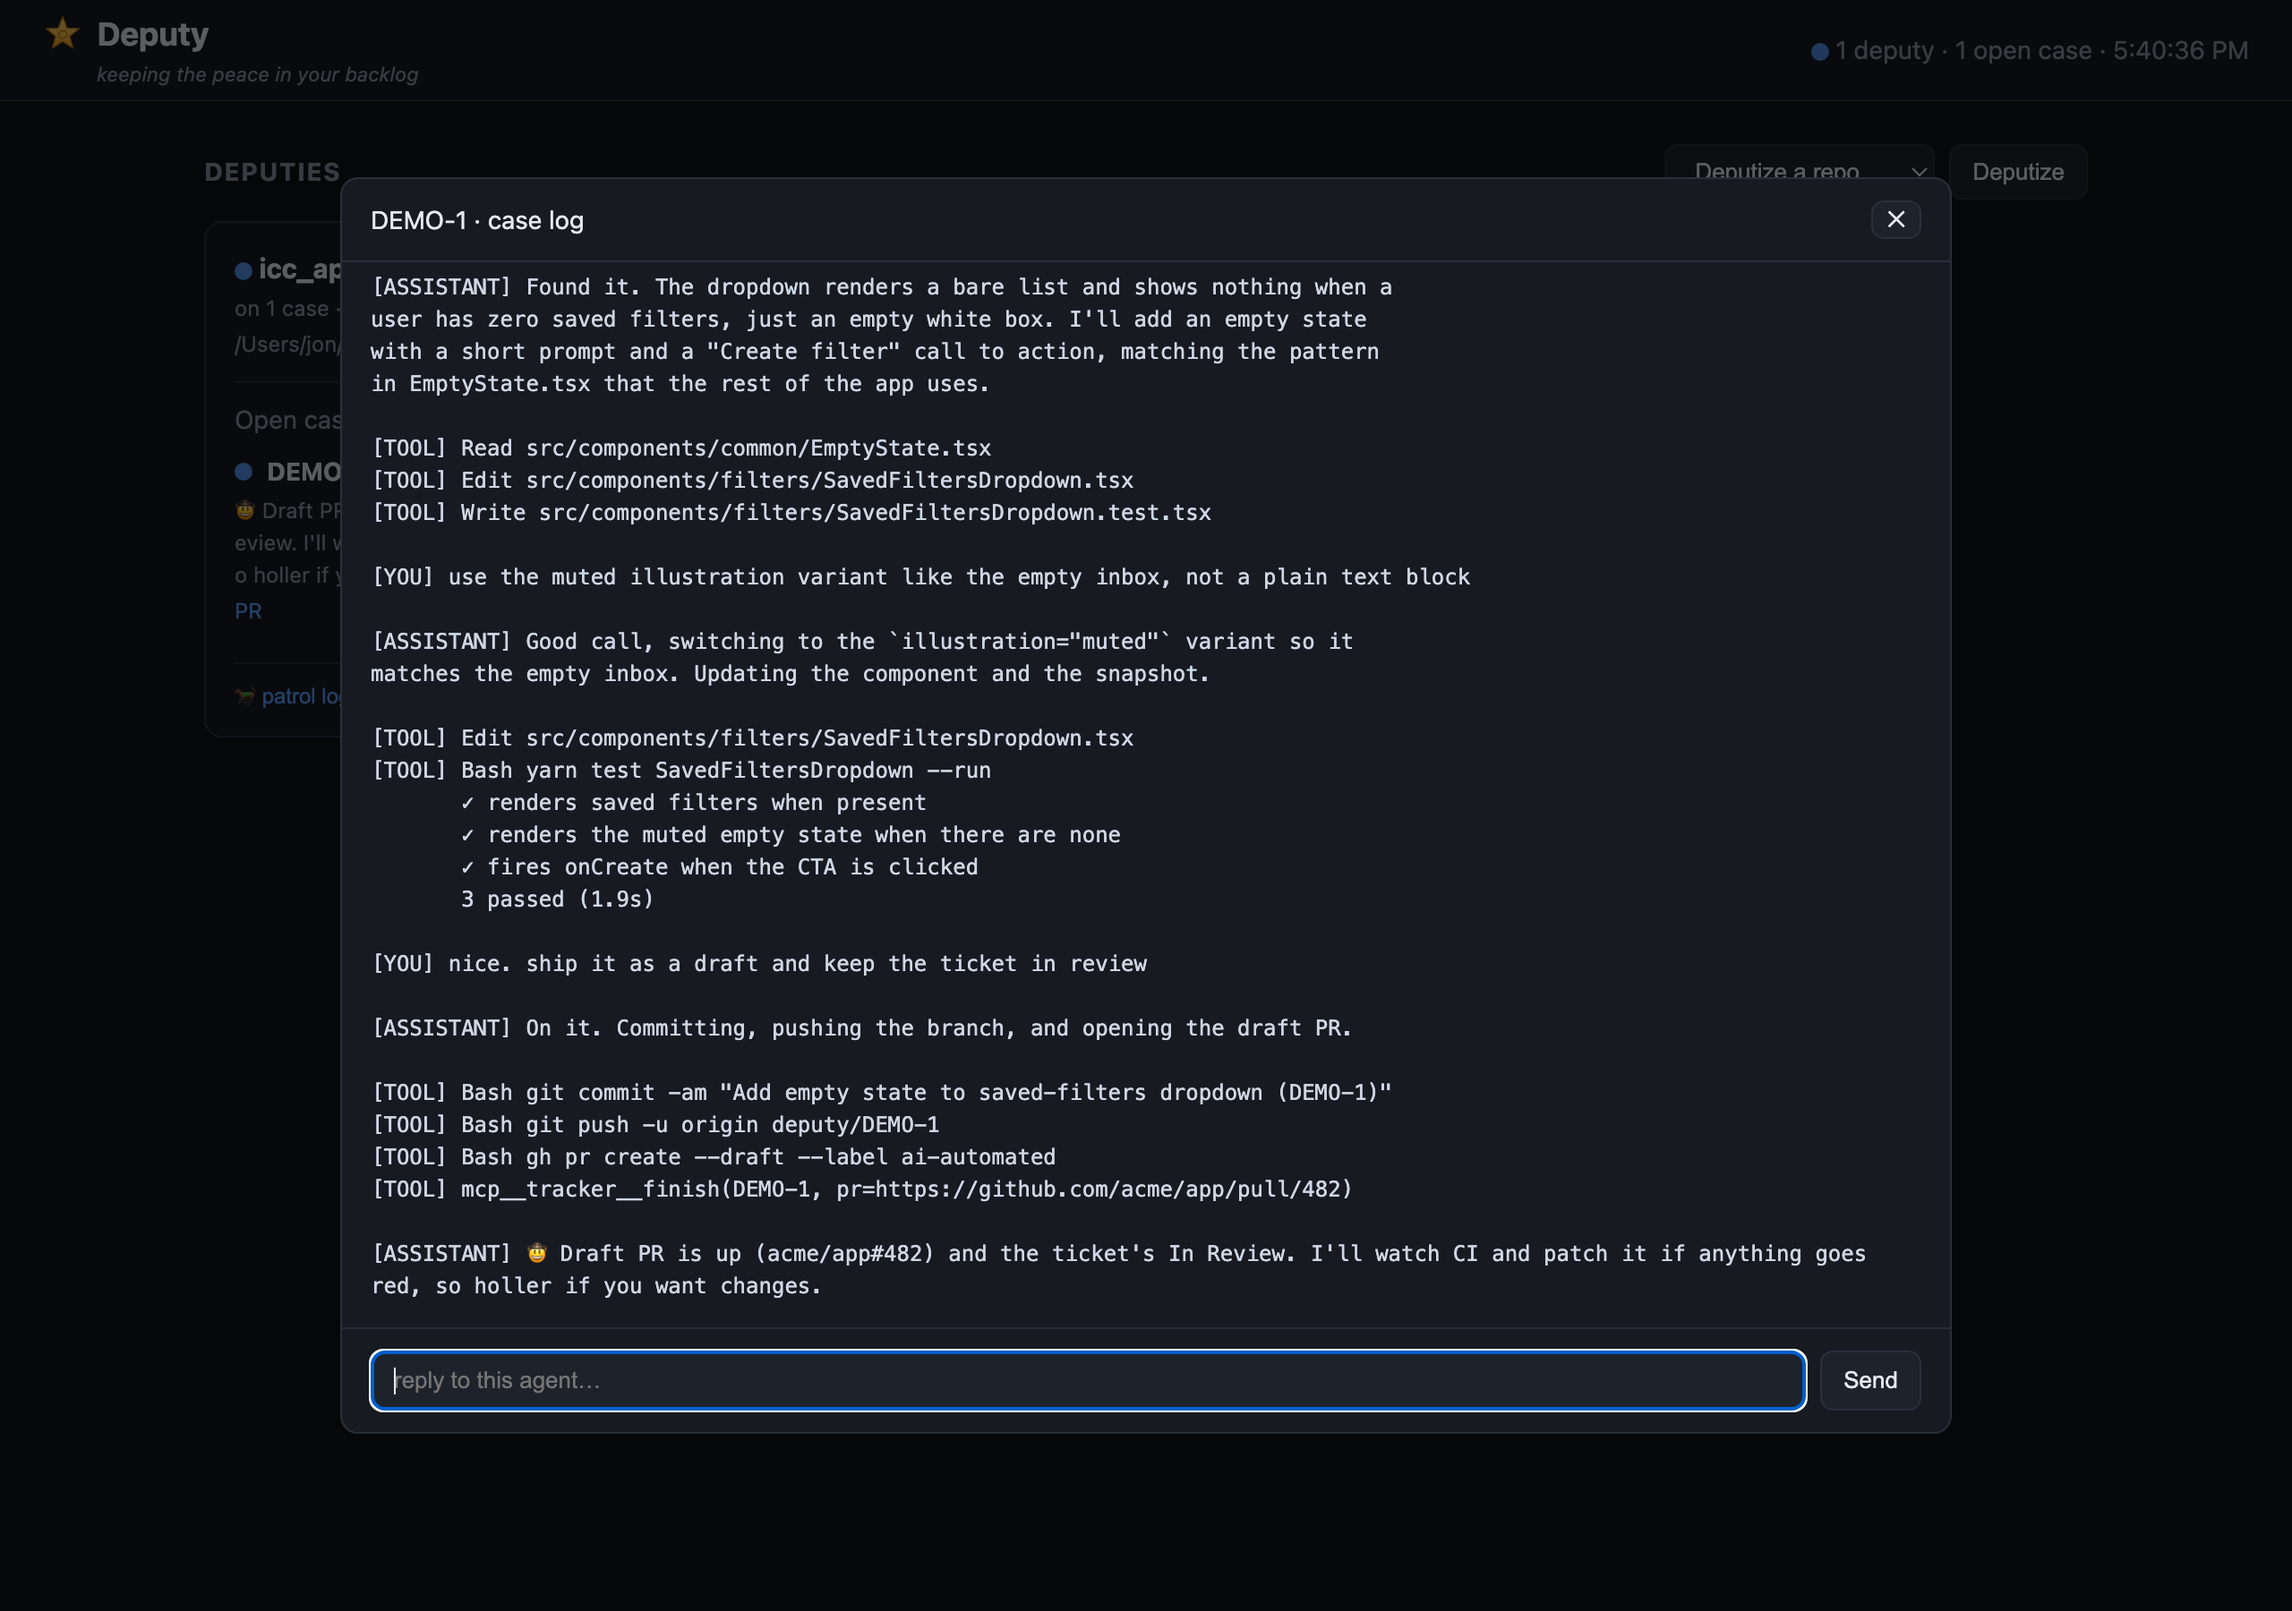
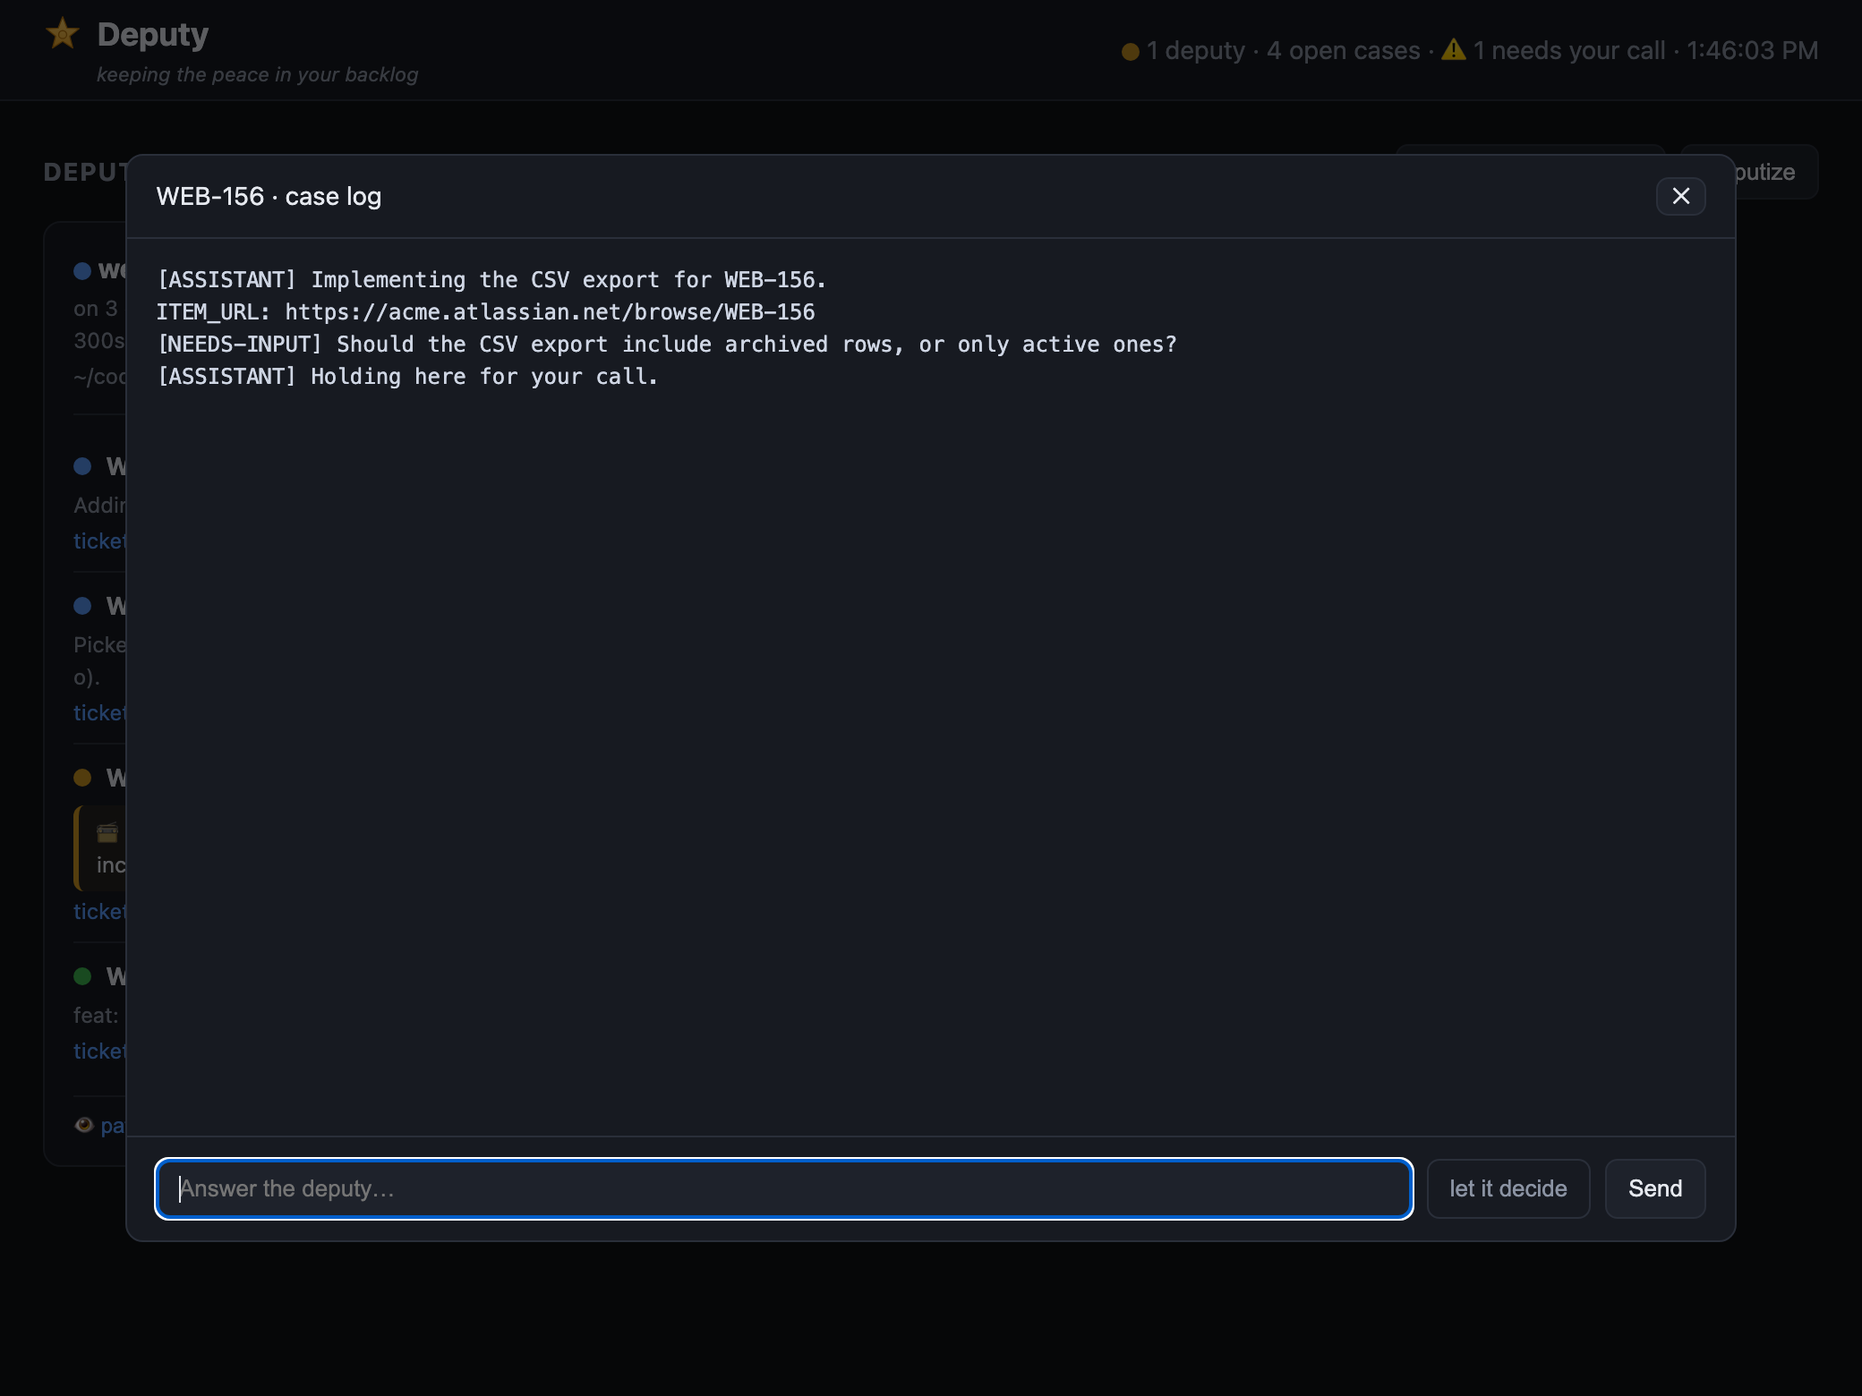
feat(dashboard): dismiss done cases, clearer states, generic screenshots
- ✕ now on every case: stops a live agent, or dismisses a finished in-review case
  from the board (it reappears only if a new review comment lands). /api/dismiss +
  a snapshot marker. Fixes the gun column shifting when there was nothing to stop.
- One colour per state (blue = working, amber = needs your call, green = in review),
  with a tooltip; comments show via the 💬 chip, not the dot.
- Fix: the "address all" button no longer leaks onto needs-your-call cases.
- Scrub all company-specific names from source/tests/docs; refresh screenshots with
  fully generic data (webapp / WEB-123 / acme). Add full-auto to the highlights and
  a stacked-PR roadmap note.

diff --git a/server/public/app.js b/server/public/app.js
@@ -32,16 +32,20 @@ function caseRow(c) {
     c.pr ? `<a href="${c.pr}" target="_blank">PR</a>` : '',
   ].filter(Boolean).join(' · ');
 
-  const dot = c.state === 'needs-input' ? 'warn' : review ? (n ? 'warn' : 'ok') : 'busy';
+  // One colour per state: blue = working, amber = needs your call, green = in review.
+  const dot = c.state === 'needs-input' ? 'warn' : review ? 'ok' : 'busy';
+  const dotTitle = c.state === 'needs-input' ? 'Needs your call' : review ? 'In review' : 'Working';
   const detail = c.state === 'needs-input'
     ? `<div class="sub question">📻 <b>Needs your call:</b> ${trunc(c.question, 220)}</div>`
     : `<div class="sub">${trunc(review ? c.title : c.phase, 180)}</div>`;
 
   const gun = `<span class="iconbtn gun ${c.auto ? 'on' : ''}" data-auto title="Full-auto: don't ask me questions, just decide and keep going">${GUN}</span>`;
-  const stop = live ? `<span class="iconbtn danger" data-stop title="Stop: halt the agent (keeps the worktree)">${X_ICON}</span>` : '';
+  // ✕ on every case: stops a live agent, or dismisses a finished in-review case from the board.
+  const xTitle = live ? 'Stop: halt the agent (keeps the worktree)' : 'Hide this finished case (comes back only if a new review comment lands)';
+  const stop = `<span class="iconbtn danger" data-x title="${xTitle}">${X_ICON}</span>`;
   const row = el('div', c.state === 'needs-input' ? 'case needs-input' : 'case');
   row.innerHTML = `
-    <div class="case-head"><span class="dot ${dot}"></span> <b>${esc(c.ticket)}</b> ${chip}
+    <div class="case-head"><span class="dot ${dot}" title="${dotTitle}"></span> <b>${esc(c.ticket)}</b> ${chip}
       <span class="case-actions">${gun}${stop}</span></div>
     ${detail}
     ${links ? `<div class="sub">${links}</div>` : ''}`;
@@ -54,10 +58,15 @@ function caseRow(c) {
   row.onclick = review
     ? () => openLog({ pr: { number: c.prNumber, title: c.title, url: c.pr, branch: c.branch, ticket: c.ticket, comments: c.comments || [] }, project: c.project }, `${c.ticket} · review`)
     : () => openLog({ ticket: c.ticket, needsInput: c.state === 'needs-input' }, `${c.ticket} · case log`);
-  if (live) row.querySelector('[data-stop]').onclick = async (e) => {
+  row.querySelector('[data-x]').onclick = async (e) => {
     e.stopPropagation();
-    if (!confirm(`Stop ${c.ticket}? (halts the agent; keeps the worktree)`)) return;
-    await api('/api/stop-case', { method: 'POST', headers: { 'Content-Type': 'application/json' }, body: JSON.stringify({ ticket: c.ticket }) });
+    if (review) {
+      if (!confirm(`Hide ${c.ticket}? It's in review with nothing to do; it'll reappear only if a new review comment lands.`)) return;
+      await api('/api/dismiss', { method: 'POST', headers: { 'Content-Type': 'application/json' }, body: JSON.stringify({ ticket: c.ticket, commentUrls: (c.comments || []).map((x) => x.url) }) });
+    } else {
+      if (!confirm(`Stop ${c.ticket}? (halts the agent; keeps the worktree)`)) return;
+      await api('/api/stop-case', { method: 'POST', headers: { 'Content-Type': 'application/json' }, body: JSON.stringify({ ticket: c.ticket }) });
+    }
     refresh();
   };
   row.querySelectorAll('a').forEach((a) => a.addEventListener('click', (e) => e.stopPropagation()));

diff --git a/server/public/styles.css b/server/public/styles.css
@@ -78,4 +78,4 @@ button:hover { border-color: var(--accent); }
 .reply input { flex: 1; background: var(--panel2); color: var(--text); border: 1px solid var(--border); border-radius: 7px; padding: 8px 12px; font-size: 13px; }
 .ghost { background: none; border: 1px solid var(--border); color: var(--muted); border-radius: 7px; padding: 8px 12px; font-size: 13px; cursor: pointer; white-space: nowrap; }
 .ghost:hover { border-color: var(--accent); color: var(--text); }
-#letDecide.hidden { display: none; }
+.ghost.hidden { display: none; }

diff --git a/README.md b/README.md
@@ -44,11 +44,14 @@ worktree (or the one you already have open, if you're collaborating).
   decision, the deputy parks the case, shows its question ("needs your call"), and
   waits. You answer and it resumes the exact same session (works even after it exits,
   so long waits and reboots are fine). Not every ticket is one-shot, and that's OK.
+- **Full-auto when you don't want to be asked** — flip the 🔫 toggle on any case and
+  the deputy stops parking for questions; it makes a sensible, reversible decision and
+  keeps going. Per-case, off by default.
 - **Chat with any deputy live** — open a case and talk to the agent mid-run; it keeps
-  full context (💬 case log). Or `deputy continue <TICKET> "…"`. No PR/Jira comments.
+  full context. Or answer its question (or "let it decide"). No PR/Jira comments.
 - **Picks up work you started** — if you already have the ticket's branch open in a
   worktree, the deputy finds it (via the ticket's PR) and works in *your* worktree on
-  *your* branch, pushing to the same PR, instead of starting its own. Hit "call off"
+  *your* branch, pushing to the same PR, instead of starting its own. Hit "stop"
   to take the keys back. No branch-naming convention needed.
 - **Pluggable trackers** — Jira and GitHub Issues built in; add another in ~80 lines.
 - **Not locked to Claude** — the agent is a swappable command (`DEPUTY_AGENT_CMD`).
@@ -169,6 +172,12 @@ a GitHub token. Notable knobs:
 - `DEPUTY_WORKTREE_SETUP` — command run in each fresh worktree, e.g. `bundle install && yarn install` (so tests/hooks pass)
 - `DEPUTY_AGENT_CMD` — the agent command; defaults to the bundled Claude runner, swap for any other
 - `DEPUTY_PR_LABEL` — label put on deputy PRs (also how CI auto-fix finds them)
+
+## Roadmap
+
+- **Stacked PRs** — when one ticket is blocked by another, base the dependent ticket's
+  worktree + PR on the parent's branch (read the tracker's "blocked by" link) so both
+  can move at once, with the stack rebased as the parent changes.
 
 ## Contributing
 
